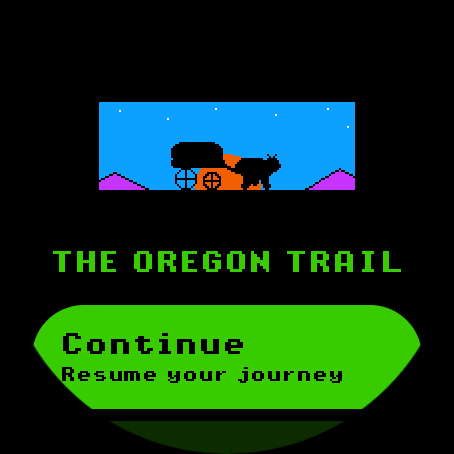
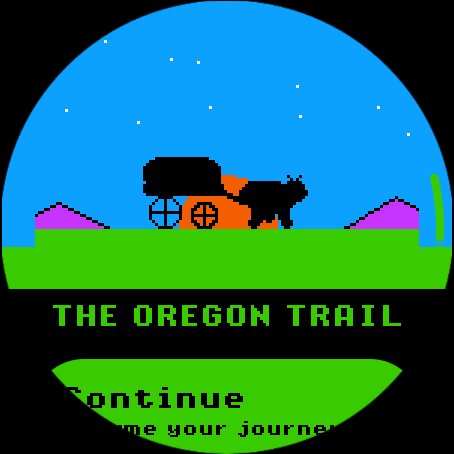
Give the title screen a full-bleed, full-palette scene
The title art was a small x2 scene squeezed above the menu chips, and
used only five of the six palette colours (no green). Redrew it as a
150x96 full-bleed asset — sky, stars, distant mountains, and a green
grass foreground the original's flat black ground band didn't have —
and switched TitleScreen to SceneScrollColumn so it renders the same
way every other landmark screen does: bled to the bezel, filling the
top half of the display.

Claude-Session: https://claude.ai/code/session_01WykvFtvZX5gVNLutE7FC5E

diff --git a/app/src/main/java/com/oregontrail/wear/ui/screens/Setup.kt b/app/src/main/java/com/oregontrail/wear/ui/screens/Setup.kt
@@ -1,6 +1,5 @@
 package com.oregontrail.wear.ui.screens
 
-import androidx.compose.foundation.layout.aspectRatio
 import androidx.compose.foundation.layout.fillMaxWidth
 import androidx.compose.runtime.Composable
 import androidx.compose.ui.Modifier
@@ -12,27 +11,15 @@ import com.oregontrail.wear.ui.Screen
 import com.oregontrail.wear.ui.components.Gap
 import com.oregontrail.wear.ui.components.MenuChip
 import com.oregontrail.wear.ui.components.RotaryColumn
-import com.oregontrail.wear.ui.components.RotaryScrollColumn
+import com.oregontrail.wear.ui.components.SceneScrollColumn
 import com.oregontrail.wear.ui.components.ScreenText
 import com.oregontrail.wear.ui.components.ScreenTitle
 import com.oregontrail.wear.ui.money
-import com.oregontrail.wear.ui.art.Scene
 import com.oregontrail.wear.ui.theme.AppleIIChrome
 
 @Composable
 fun TitleScreen(controller: GameController) {
-    RotaryScrollColumn {
-        // Deliberately x2 rather than x3: the title screen has to fit a heading and two
-        // chips underneath, and a full-size scene leaves no room for them. This is the
-        // one screen where the art gives way to the controls.
-        //
-        // The fraction is of the *padded* width, which is 390px once the column's 16.dp
-        // of side padding is doubled by the display's density of 2. 0.72 of that is 281,
-        // which floors to x2 with room to spare; 0.62 gave 242 and floored to x1.
-        Scene(
-            background = "title_banner",
-            modifier = Modifier.fillMaxWidth(0.72f).aspectRatio(2f),
-        )
+    SceneScrollColumn(background = "title_banner") {
         Gap(4)
         ScreenTitle("THE OREGON TRAIL")
         Gap(12)
